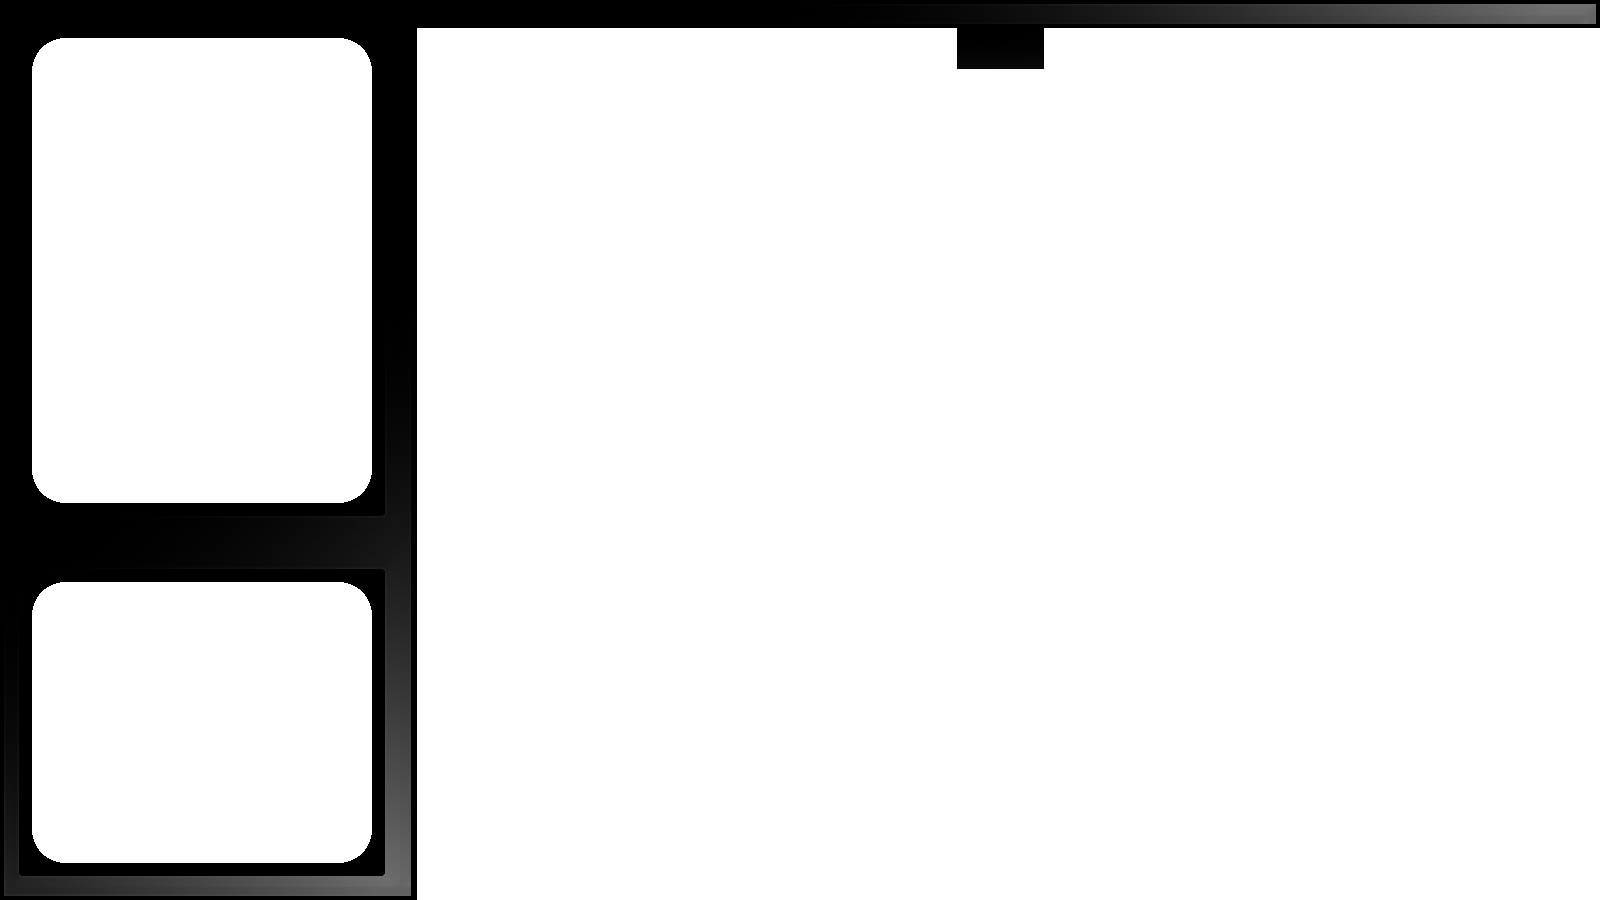
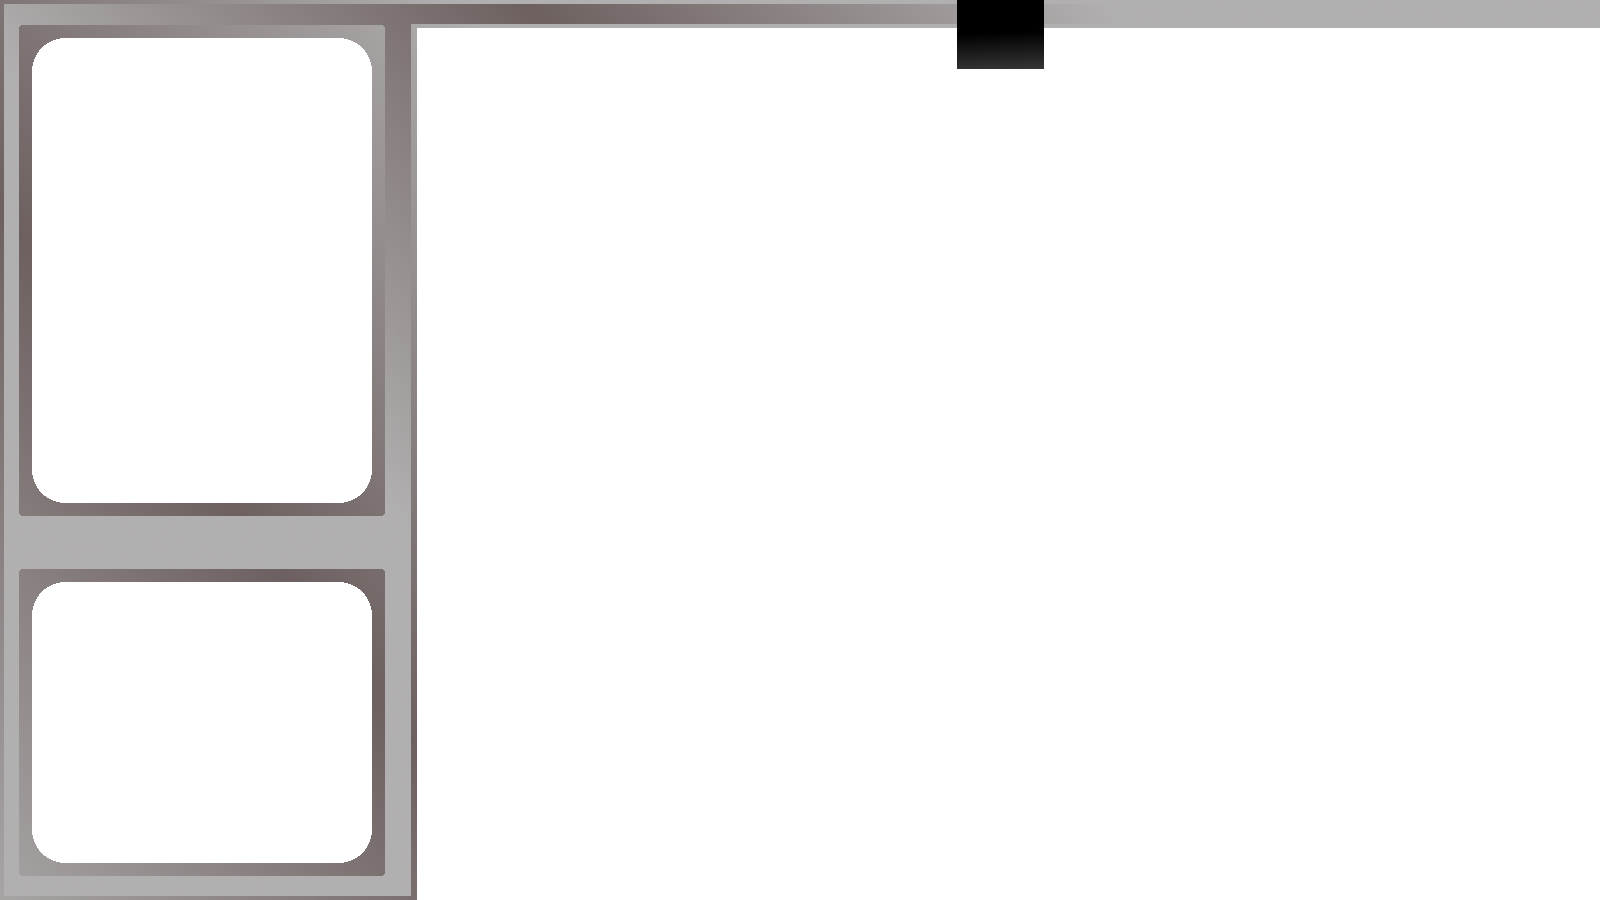
Added a default scene to the background of the game, rendered as a texture.

Changed region(s): [[0.0, 0.0, 1.0, 1.0]]

diff --git a/game/DBZCCG.js b/game/DBZCCG.js
@@ -13,11 +13,11 @@ DBZCCG.flyOverCamera = new THREE.PerspectiveCamera(45, (window.innerWidth * 0.25
 DBZCCG.selectionParticles = null;
 DBZCCG.clock = new THREE.Clock();
 
-DBZCCG.descriptionBox = function (content) {
+DBZCCG.descriptionBox = function(content) {
     document.getElementById('descriptionBoxContent').innerHTML = content;
 };
 
-DBZCCG.clearDescriptionBox = function () {
+DBZCCG.clearDescriptionBox = function() {
     document.getElementById('descriptionBoxContent').innerHTML = '';
 };
 
@@ -36,7 +36,7 @@ DBZCCG.selectionEffect = function(color, objects) {
 
 DBZCCG.startSelectionParticles = function() {
     var geo = new THREE.Geometry();
-    for (var z = -Card.cardWidth /2 ; z < Card.cardWidth /2 ; z = z + 0.01) {
+    for (var z = -Card.cardWidth / 2; z < Card.cardWidth / 2; z = z + 0.01) {
         var x = Math.pow(Math.pow(Card.cardWidth / 2, 2) - Math.pow(z, 2), 0.5);
         var particle = new THREE.Vector3(x, 0.6, z);
         particle.basePos = particle.clone();
@@ -68,18 +68,18 @@ DBZCCG.startSelectionParticles = function() {
     DBZCCG.selectionParticles.visible = false;
 
     DBZCCG.updateParticles = function() {
-        if(DBZCCG.selectionParticles.visible) {
+        if (DBZCCG.selectionParticles.visible) {
 
             DBZCCG.selectionParticles.rotation.y += 10 * Math.PI / 180;
 
-            var pCount = particleCount ;
+            var pCount = particleCount;
             while (pCount--) {
 
                 // get the particle
                 var particle = geo.vertices[pCount];
 
-                var icrVector = new THREE.Vector3(Math.cos(pCount)*0.1, 0.6 + Math.sin(DBZCCG.clock.elapsedTime)*0.15, Math.cos(pCount)*0.1);
-                particle.copy(particle.basePos.clone().multiplyScalar(Math.abs(Math.cos(DBZCCG.clock.elapsedTime))*0.5 + 0.5).add(icrVector));
+                var icrVector = new THREE.Vector3(Math.cos(pCount) * 0.1, 0.6 + Math.sin(DBZCCG.clock.elapsedTime) * 0.15, Math.cos(pCount) * 0.1);
+                particle.copy(particle.basePos.clone().multiplyScalar(Math.abs(Math.cos(DBZCCG.clock.elapsedTime)) * 0.5 + 0.5).add(icrVector));
             }
 
             DBZCCG.selectionParticles.
@@ -156,11 +156,82 @@ DBZCCG.create = function() {
         scene.add(skybox);
     }
 
+    function loadDefaultBackground() {
+        var geometry = new THREE.CylinderGeometry(0.1, 0.2, 100, 64, 32, true);
+
+        function createBar() {
+            var mat = new THREE.MeshLambertMaterial({transparent: true, opacity: 0, color: 0x0000CC, shading: THREE.SmoothShading});
+            var mesh = new THREE.Mesh(geometry, mat);
+            mesh.rotation.x = Math.PI / 2;
+            mesh.position.set(Math.pow(-1, parseInt(Math.random() * 10) % 2) * Math.random() * 40, Math.pow(-1, parseInt(Math.random() * 10) % 2) * Math.random() * 40, 100);
+            return mesh;
+        }
+
+        var mesh = [];
+        for (var i = 0; i < 225; i++) {
+            mesh[i] = createBar();
+            mesh[i].position.z -= Math.pow(-1, parseInt(Math.random() * 10)%2)*(Math.random()*100%25);
+            DBZCCG.background.scene.add(mesh[i]);
+        }
+        DBZCCG.background.camera.position.z = -100;
+        DBZCCG.background.camera.far = 100;
+        DBZCCG.background.camera.lookAt(new THREE.Vector3(0, 0, 1000));
+        DBZCCG.background.camera.fov = 360;
+
+        var light = new THREE.PointLight(0xFFF0F0, 1, 1000);
+        light.position.z = 50;
+        DBZCCG.background.scene.add(light);
+
+        DBZCCG.background.update = function() {
+            var camera = DBZCCG.background.camera;
+            for (var i = 0; i < mesh.length; i++) {
+                mesh[i].position.z -= 0.5;
+                mesh[i].material.color.b = (204 - Math.sin(Math.random())*20)/255;
+                mesh[i].material.color.g = Math.abs(Math.sin(DBZCCG.clock.elapsedTime))*0.8;
+                mesh[i].material.color.r = Math.abs(Math.cos(DBZCCG.clock.elapsedTime))*0.8;
+
+                if (mesh[i].position.z < -30) {
+                    DBZCCG.background.scene.remove(mesh[i]);
+                    mesh[i] = createBar();
+                    DBZCCG.background.scene.add(mesh[i]);
+                } else if (mesh[i].position.z < 0) {
+                    mesh[i].material.opacity -= 0.02 ;
+                } else if (mesh[i].position.z > 25 && mesh[i].material.opacity < 1) {
+                    mesh[i].material.opacity += 0.02 ;
+                }
+            }
+        };
+    }
+
+    function createBackground(scene, camera) {
+        DBZCCG.background = {};
+        var sizeX = window.innerWidth * 0.75;
+        var sizeY = window.innerHeight;
+
+        DBZCCG.background.scene = new THREE.Scene();
+
+        DBZCCG.background.texture = new THREE.WebGLRenderTarget(sizeX, sizeY, {minFilter: THREE.LinearFilter, magFilter: THREE.NearestFilter, format: THREE.RGBFormat});
+        DBZCCG.background.camera = new THREE.PerspectiveCamera(45, sizeX / sizeY, 0.01, 10000);
+
+        var plane = new THREE.PlaneGeometry(sizeX * 1.4, sizeY * 1.4);
+        var planeMaterial = new THREE.MeshBasicMaterial({map: DBZCCG.background.texture});
+
+        loadDefaultBackground();
+
+        DBZCCG.background.plane = new THREE.Mesh(plane, planeMaterial);
+        DBZCCG.background.plane.rotation.x = -45 * Math.PI / 180;
+        DBZCCG.background.plane.position.z = -Math.cos(-45) * 1000 - sizeY / 2;
+        DBZCCG.background.plane.position.y = Math.sin(-45) * 1000 - sizeX / 16;
+
+        scene.add(DBZCCG.background.plane);
+    }
+
     function buildScene(scene, camera) {
         var light = new THREE.PointLight(0xF0F0F0); // soft white light
         light.position.set(0, 100, 0);
         scene.add(light);
-        createSkybox(scene);
+        createBackground(scene, camera);
+        //createSkybox(scene);
         table = Table.create([
             /*P1*/
             {mainPersonality: {alignment: Personality.alignment.Hero, currentMainPersonalityLevel: 1, currentPowerStageAboveZero: 6, currentAngerLevel: 1,
@@ -171,7 +242,7 @@ DBZCCG.create = function() {
                         {style: Card.Style.Freestyle, PUR: 3, alignment: Personality.alignment.Hero, description: "Power: Once per combat, reduces the damage of an energy attack by 2 life cards.", level: 3, name: "GOKU", highTech: false, number: 160, texturePath: "images/DBZCCG/saiyan/160.jpg",
                             personality: Personality.GOKU, saga: Card.Saga.SAIYAN, powerStages: [0, 8000, 8500, 9000, 9500, 10000, 10500, 11000, 11500, 12000, 12500]}]}},
             /*P2*/
-            {mainPersonality: {alignment: Personality.alignment.Villain,  currentMainPersonalityLevel: 1, currentPowerStageAboveZero: 2, currentAngerLevel: 1,
+            {mainPersonality: {alignment: Personality.alignment.Villain, currentMainPersonalityLevel: 1, currentPowerStageAboveZero: 2, currentAngerLevel: 1,
                     angerLevelNeededToLevel: 5, personalities: [{style: Card.Style.Freestyle, PUR: 2, alignment: Personality.alignment.Rogue, description: "Power: Once per combat, reduces the damage of an energy attack by 2 life cards.", level: 1, name: "VEGETA", highTech: false, number: 173, texturePath: "images/DBZCCG/saiyan/173.jpg",
                             personality: Personality.VEGETA, saga: Card.Saga.SAIYAN, powerStages: [0, 2000, 2200, 2400, 2600, 2800, 3000, 3200, 3400, 3600, 3800]},
                         {style: Card.Style.Freestyle, PUR: 4, alignment: Personality.alignment.Rogue, description: "Power: Energy attack doing 3 life cards of damage. Costs 1 power stage.", level: 2, name: "VEGETA", highTech: false, number: 174, texturePath: "images/DBZCCG/saiyan/174.jpg",
@@ -426,6 +497,14 @@ DBZCCG.create = function() {
         // Update Particles
         DBZCCG.updateParticles();
 
+        // Update background
+        DBZCCG.background.update();
+
+        // Render background screen
+        renderer.enableScissorTest(false);
+        renderer.setClearColor(0x000000);
+        renderer.render(DBZCCG.background.scene, DBZCCG.background.camera, DBZCCG.background.texture, true);
+
         // Render main screen
         renderer.setViewport(window.innerWidth * 0.25, 0, window.innerWidth * 0.75, window.innerHeight);
         renderer.setScissor(window.innerWidth * 0.25, 0, window.innerWidth * 0.75, window.innerHeight);
@@ -436,6 +515,7 @@ DBZCCG.create = function() {
         renderer.setViewport(0, window.innerHeight * 0.40, window.innerWidth * 0.25, window.innerHeight);
         renderer.setScissor(0, window.innerHeight * 0.40, window.innerWidth * 0.25, window.innerHeight);
         renderer.enableScissorTest(true);
+        renderer.setClearColor(0xCCCCCD);
         renderer.render(scene, DBZCCG.flyOverCamera);
     }
 

diff --git a/index.html b/index.html
@@ -6,43 +6,44 @@
 
         <link rel="stylesheet" href="css/alertify.css" />
         <link rel="stylesheet" href="css/alertify.dbzccg.css" />
-        
-        <script id="skybox_vertex_shader" type="x-shader/x-fragment">
-varying vec3 vWorldPosition;
-varying vec2 vUv;
-varying vec3 vViewPosition;
+        <link rel="stylesheet" href="css/dbzccg.css" />
 
-void main() {
-    vec4 mvPosition = modelViewMatrix * vec4( position, 1.0 );
-    vec4 worldPosition = modelMatrix * vec4( position, 1.0 );
-    vUv = uv;
-    vWorldPosition = worldPosition.xyz;
-    vViewPosition = -mvPosition.xyz;
-    gl_Position = (projectionMatrix * modelViewMatrix * vec4( position , 0.0 )).xyww;
-}
+        <script id="skybox_vertex_shader" type="x-shader/x-fragment">
+            varying vec3 vWorldPosition;
+            varying vec2 vUv;
+            varying vec3 vViewPosition;
+
+            void main() {
+            vec4 mvPosition = modelViewMatrix * vec4( position, 1.0 );
+            vec4 worldPosition = modelMatrix * vec4( position, 1.0 );
+            vUv = uv;
+            vWorldPosition = worldPosition.xyz;
+            vViewPosition = -mvPosition.xyz;
+            gl_Position = (projectionMatrix * modelViewMatrix * vec4( position , 0.0 )).xyww;
+            }
         </script>
         <script id="skybox_fragment_shader" type="x-shader/x-fragment">
-uniform samplerCube tCube;
-uniform samplerCube tCube2;
-uniform float tFlip;
+            uniform samplerCube tCube;
+            uniform samplerCube tCube2;
+            uniform float tFlip;
 
-varying vec3 vWorldPosition;
-varying vec2 vUv;
-varying vec3 vViewPosition;
+            varying vec3 vWorldPosition;
+            varying vec2 vUv;
+            varying vec3 vViewPosition;
 
-float rand(vec2 co){
-    return fract(sin(dot(co.xy ,vec2(12.9898,78.233))) * 43758.5453);
-}
+            float rand(vec2 co){
+            return fract(sin(dot(co.xy ,vec2(12.9898,78.233))) * 43758.5453);
+            }
 
-void main() {
-        vec4 res1 = textureCube( tCube, vec3( tFlip * vWorldPosition.x, vWorldPosition.yz ) );
-        vec4 res2 = textureCube( tCube2, vec3( tFlip * vWorldPosition.x, vWorldPosition.yz ) );
-        
-        gl_FragColor = vec4( vWorldPosition.x > 0.0 ? res1.x : res2.x, vWorldPosition.x > 0.0 ? res1.y : res2.y, vWorldPosition.x > 0.0 ? res1.z : res2.z, 1.0 ) ;
-}
+            void main() {
+            vec4 res1 = textureCube( tCube, vec3( tFlip * vWorldPosition.x, vWorldPosition.yz ) );
+            vec4 res2 = textureCube( tCube2, vec3( tFlip * vWorldPosition.x, vWorldPosition.yz ) );
+
+            gl_FragColor = vec4( vWorldPosition.x > 0.0 ? res1.x : res2.x, vWorldPosition.x > 0.0 ? res1.y : res2.y, vWorldPosition.x > 0.0 ? res1.z : res2.z, 1.0 ) ;
+            }
         </script>
-        <script type="text/javascript" src="lib/alertify.min.js"></script>
         <script src="//ajax.googleapis.com/ajax/libs/jquery/1.10.2/jquery.min.js"></script>
+        <script type="text/javascript" src="lib/alertify.min.js"></script>
         <script type="text/javascript" src="lib/three.min.js"></script>
         <script type="text/javascript" src="lib/JSONLoader.js"></script>
         <script type="text/javascript" src="lib/OrbitControls.js"></script>
@@ -57,23 +58,31 @@ void main() {
         <script type="text/javascript" src="game/Screen.js"></script>
         <script type="text/javascript" src="game/DBZCCG.js"></script>
         <script type="text/javascript">
-            $(document).ready(function(){
-
-                function getKeyByValue ( object, value ) {
-                    for( var prop in object ) {
-                        if( this.hasOwnProperty( prop ) ) {
-                             if( object[ prop ] === value )
-                                 return prop;
-                        }
-                    }
+            function getKeyByValue(object, value) {
+                for (var prop in object) {
+                    if (object[ prop ] === value)
+                        return prop;
                 }
-            
+            }
+
+            $(document).ready(function() {
+
                 DBZCCG.create();
+
             });
         </script>
-        
+
     </head>
     <body id='body' style="margin: 0; overflow: hidden;" oncontextmenu="return false;">
         <h1 id="loadingText">Loading!!!!</h1>
+        <div id='hud'>
+        </div>
+        
+        <div id='descriptionBox'>
+        </div>
+        
+        <div id='descriptionBoxContent'>
+        </div>
+
     </body>
 </html>

diff --git a/game/Personality.js b/game/Personality.js
@@ -41,6 +41,7 @@ Personality.create = function(data) {
         var cardDescription = this.descriptionBox;
         this.descriptionBox = function() {
             var cardDesc = cardDescription();
+            cardDesc = cardDesc.replace(/%type%/g, "Personality");
             var elements = $(cardDesc).not(".card-saga-label");
             var sagaLabel = $(cardDesc).filter(".card-saga-label")[0].outerHTML;
             var content = '';
@@ -52,7 +53,7 @@ Personality.create = function(data) {
             content+= "<div class='personality-pur-label'>Personality Level: "+this.level+"</div>";
             content+= "<div class='personality-pur-label'>Power-Up Rating: "+this.PUR+"</div>";
             content+= "<div class='personality-alignment-label'>Alignment: "+getKeyByValue(Personality.alignment, this.alignment)+"</div>";
-            content+= "<div class='personality-powerstage-label'>Power Stages: <br />"+this.powerStages.toString().replace(/,/g,'<br />')+"</div>";
+            content+= "<div class='personality-powerstage-label'>Power Stages ("+(+this.powerStages.length - 1)+" total stages above zero): <br />"+this.powerStages.slice(0).reverse().toString().replace(/,/g,'<br />')+"</div>";
 
             content+= sagaLabel;
                         

diff --git a/game/Card.js b/game/Card.js
@@ -166,6 +166,7 @@ Card.create = function(dataObject) {
         
         card.descriptionBox = function () {
             var content = "<div class='card-name'>"+card.name+"</div>\
+                            <div class='card-type'>[%type%]</div>\
                             <div class='card-description'>"+card.description+"</div>";
             if(card.personality) {
                 content += "<div class='card-personality'>Personality: "+getKeyByValue(Personality, card.personality)+"</div>";
